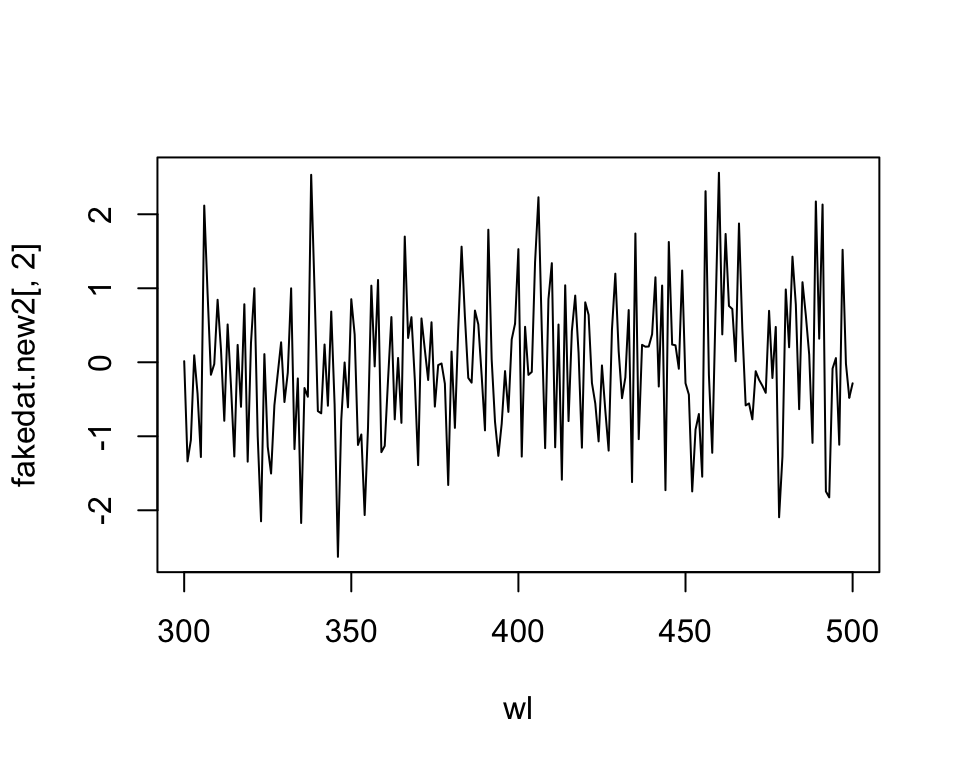
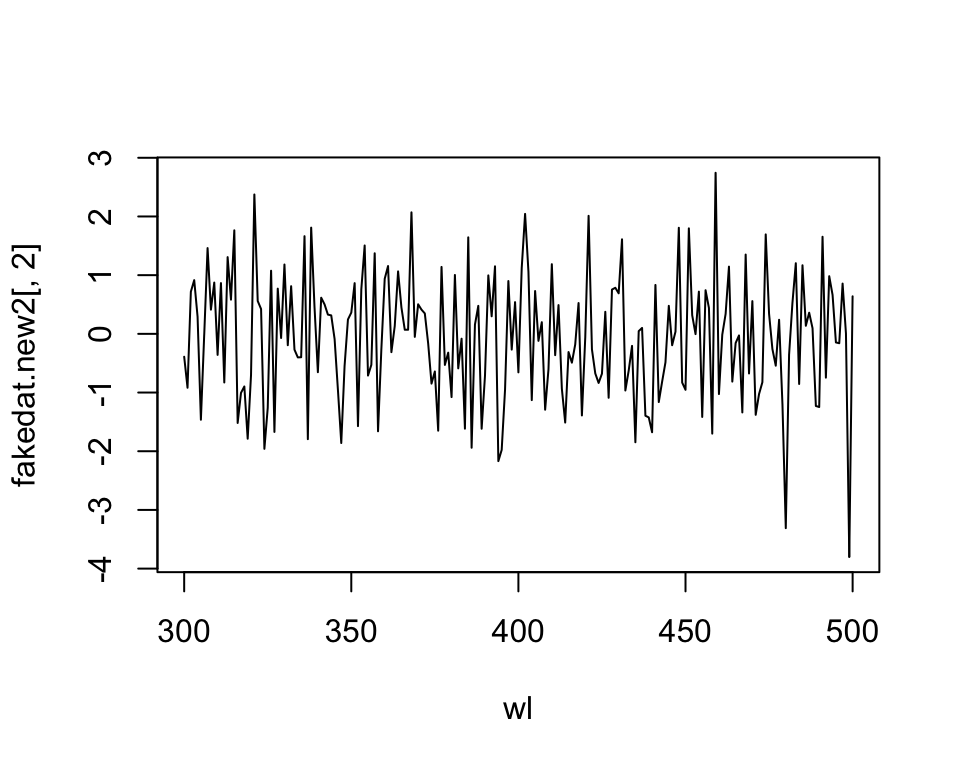
readme

diff --git a/docs/articles/pavo.html b/docs/articles/pavo.html
@@ -117,13 +117,13 @@ fakedat &lt;-<span class="st"> </span><span class="kw">data.frame</span>(<span c
                       <span class="dt">refl2 =</span> <span class="kw">rnorm</span>(<span class="dt">n =</span> <span class="dv">801</span>), 
                       <span class="dt">wavelength =</span> <span class="kw">seq</span>(<span class="dv">300</span>, <span class="dv">700</span>, <span class="dt">by =</span> .<span class="dv">5</span>))
 <span class="kw">head</span>(fakedat)</code></pre></div>
-<pre><code>##         refl1      refl2 wavelength
-## 1  0.01442631  0.5185844      300.0
-## 2  1.31080537  0.6883689      300.5
-## 3 -1.33869318 -0.4422864      301.0
-## 4  0.57639764  0.9572280      301.5
-## 5 -1.05061655  0.1679977      302.0
-## 6 -0.26932046 -0.2680986      302.5</code></pre>
+<pre><code>##        refl1      refl2 wavelength
+## 1 -0.3899778  1.3901699      300.0
+## 2  0.8020049  0.3973631      300.5
+## 3 -0.9183102  1.6161228      301.0
+## 4 -0.8252260  0.2964731      301.5
+## 5  0.7185943 -0.2588769      302.0
+## 6 -0.6365336  3.0182240      302.5</code></pre>
 <div class="sourceCode"><pre class="sourceCode r"><code class="sourceCode r"><span class="kw"><a href="../reference/as.rspec.html">is.rspec</a></span>(fakedat)</code></pre></div>
 <pre><code>## [1] FALSE</code></pre>
 <div class="sourceCode"><pre class="sourceCode r"><code class="sourceCode r">fakedat.new &lt;-<span class="st"> </span><span class="kw"><a href="../reference/as.rspec.html">as.rspec</a></span>(fakedat)</code></pre></div>
@@ -131,22 +131,22 @@ fakedat &lt;-<span class="st"> </span><span class="kw">data.frame</span>(<span c
 <div class="sourceCode"><pre class="sourceCode r"><code class="sourceCode r"><span class="kw"><a href="../reference/as.rspec.html">is.rspec</a></span>(fakedat.new)</code></pre></div>
 <pre><code>## [1] TRUE</code></pre>
 <div class="sourceCode"><pre class="sourceCode r"><code class="sourceCode r"><span class="kw">head</span>(fakedat.new)</code></pre></div>
-<pre><code>##    wl       refl1      refl2
-## 1 300  0.01442631  0.5185844
-## 2 301 -1.33869318 -0.4422864
-## 3 302 -1.05061655  0.1679977
-## 4 303  0.09383931  0.5488937
-## 5 304 -0.42433494  0.1307320
-## 6 305 -1.28008814  1.4509509</code></pre>
+<pre><code>##    wl      refl1      refl2
+## 1 300 -0.3899778  1.3901699
+## 2 301 -0.9183102  1.6161228
+## 3 302  0.7185943 -0.2588769
+## 4 303  0.9149001  0.8236543
+## 5 304  0.2962583  1.5031133
+## 6 305 -1.4632534  0.8829024</code></pre>
 <p>As can be seen, <code>as.rspec</code> renames the column containing wavelengths, sets it as the first column, interpolates the data in 1-nm bins and converts the data to an <code>rspec</code> object. Note that the same output is returned with specifying <code>whichwl = 3</code>:</p>
 <div class="sourceCode"><pre class="sourceCode r"><code class="sourceCode r"><span class="kw">head</span>(<span class="kw"><a href="../reference/as.rspec.html">as.rspec</a></span>(fakedat, <span class="dt">whichwl =</span> <span class="dv">3</span>))</code></pre></div>
-<pre><code>##    wl       refl1      refl2
-## 1 300  0.01442631  0.5185844
-## 2 301 -1.33869318 -0.4422864
-## 3 302 -1.05061655  0.1679977
-## 4 303  0.09383931  0.5488937
-## 5 304 -0.42433494  0.1307320
-## 6 305 -1.28008814  1.4509509</code></pre>
+<pre><code>##    wl      refl1      refl2
+## 1 300 -0.3899778  1.3901699
+## 2 301 -0.9183102  1.6161228
+## 3 302  0.7185943 -0.2588769
+## 4 303  0.9149001  0.8236543
+## 5 304  0.2962583  1.5031133
+## 6 305 -1.4632534  0.8829024</code></pre>
 <p>Finally, the <code>lim</code> argument allows you to specify the range of wavelengths contained in the input dataset. This is useful either in the case that the dataset doesn’t contain this information (and hence you cannot specify the column with <code>whichwl</code> or automatically find the column with <code>as.rspec</code>). Additionally, it may be useful to focus on a subset of wavelength. In our example, the wavelengths ranged from 300 to 700 nm, however you could also specify a restricted range of wavelengths with <code>lim</code>:</p>
 <div class="sourceCode"><pre class="sourceCode r"><code class="sourceCode r">fakedat.new2 &lt;-<span class="st"> </span><span class="kw"><a href="../reference/as.rspec.html">as.rspec</a></span>(fakedat, <span class="dt">lim =</span> <span class="kw">c</span>(<span class="dv">300</span>, <span class="dv">500</span>))</code></pre></div>
 <pre><code>## wavelengths found in column 3</code></pre>

diff --git a/docs/index.html b/docs/index.html
@@ -54,27 +54,32 @@
 <div class="page-header"><h1 class="hasAnchor">
 <a href="#pavo" class="anchor"></a><code>pavo</code>
 </h1></div>
-<div id="an-r-package-for-spectral-color-analysis-by-rafael-maia-thomas-white-chad-eliason-pierre-paul-bitton" class="section level3">
+<div id="an-r-package-for-spectral-color-analysis-by-rafael-maia-thomas-white-chad-eliason-and-pierre-paul-bitton" class="section level3">
 <h3 class="hasAnchor">
-<a href="#an-r-package-for-spectral-color-analysis-by-rafael-maia-thomas-white-chad-eliason-pierre-paul-bitton" class="anchor"></a>an R package for spectral color analysis by Rafael Maia, Thomas White, Chad Eliason, Pierre-Paul Bitton</h3>
+<a href="#an-r-package-for-spectral-color-analysis-by-rafael-maia-thomas-white-chad-eliason-and-pierre-paul-bitton" class="anchor"></a>an R package for spectral color analysis by Rafael Maia, Thomas White, Chad Eliason and Pierre-Paul Bitton</h3>
 <p><a href="https://cran.r-project.org/package=pavo/"><img src="http://www.r-pkg.org/badges/version/pavo" alt="cran version"></a> <img src="http://cranlogs.r-pkg.org/badges/grand-total/pavo" alt="cran downloads"><a href="https://travis-ci.org/rmaia/pavo/branches"><img src="https://travis-ci.org/rmaia/pavo.svg?branch=master" alt="Build Status"></a><br><!-- revamp: [![Build Status](https://travis-ci.org/rmaia/pavo.svg?branch=revamp)](https://travis-ci.org/rmaia/pavo/branches) --></p>
 </div>
 <div id="about" class="section level2">
 <h2 class="hasAnchor">
 <a href="#about" class="anchor"></a>About</h2>
 <p>A set of functions and tools for the analysis of color data in a unified framework.</p>
-<p>Click here for <a href="http://rafaelmaia.net/pavo/news/index.html">Latest News</a> and <a href="http://rafaelmaia.net/pavo/articles/pavo.html">Package Vignette</a>.</p>
-</div>
-<div id="need-help-with-the-package" class="section level2">
-<h2 class="hasAnchor">
-<a href="#need-help-with-the-package" class="anchor"></a>Need help with the package?</h2>
-<p>Join the chat: <a href="https://gitter.im/r-pavo/help?utm_source=badge&amp;utm_medium=badge&amp;utm_campaign=pr-badge&amp;utm_content=badge"><img src="https://badges.gitter.im/Join%20Chat.svg" alt="Join the chat at https://gitter.im/r-pavo/help"></a></p>
-<div id="citing-pavo" class="section level3">
+<p>and</p>
+<div id="need-help-with-the-package" class="section level3">
 <h3 class="hasAnchor">
-<a href="#citing-pavo" class="anchor"></a>Citing pavo</h3>
+<a href="#need-help-with-the-package" class="anchor"></a>Need help with the package?</h3>
+<ul>
+<li>Click the links above for help with specific functions.</li>
+<li>Check out the <a href="http://rafaelmaia.net/pavo/news/index.html">Latest News</a> for changes and updates.</li>
+<li>Read the <a href="http://rafaelmaia.net/pavo/articles/pavo.html">Package Vignette</a> for detailed examples and workflow pipeline.</li>
+<li><strong>Can’t find what you’re looking for? Join the chat: <a href="https://gitter.im/r-pavo/help?utm_source=badge&amp;utm_medium=badge&amp;utm_campaign=pr-badge&amp;utm_content=badge"><img src="https://badges.gitter.im/Join%20Chat.svg" alt="Join the chat at https://gitter.im/r-pavo/help"></a></strong></li>
+</ul>
+</div>
+</div>
+<div id="citing-pavo" class="section level2">
+<h2 class="hasAnchor">
+<a href="#citing-pavo" class="anchor"></a>Citing pavo</h2>
 <p>The manuscript describing the package has been published and is free to access:</p>
 <p>Maia R., Eliason C.M., Bitton P.-P., Doucet S.M. and Shawkey M.D. 2013. <strong>pavo: an R Package for the analysis, visualization and organization of spectral data.</strong> <em>Methods in Ecology and Evolution</em> 4(10):609-613. [doi: 10.1111/2041-210X.12069] (<a href="http://onlinelibrary.wiley.com/doi/10.1111/2041-210X.12069/abstract" class="uri">http://onlinelibrary.wiley.com/doi/10.1111/2041-210X.12069/abstract</a>)</p>
-</div>
 </div>
 <div id="install" class="section level2">
 <h2 class="hasAnchor">

diff --git a/README.md b/README.md
@@ -1,21 +1,21 @@
 # `pavo`
 
-### an R package for spectral color analysis by Rafael Maia, Thomas White, Chad Eliason, Pierre-Paul Bitton
+### an R package for spectral color analysis by Rafael Maia, Thomas White, Chad Eliason and Pierre-Paul Bitton
 
-[![cran version](http://www.r-pkg.org/badges/version/pavo)](https://cran.r-project.org/package=pavo/)
-![cran downloads](http://cranlogs.r-pkg.org/badges/grand-total/pavo)
-[![Build Status](https://travis-ci.org/rmaia/pavo.svg?branch=master)](https://travis-ci.org/rmaia/pavo/branches)  
+[![cran version](http://www.r-pkg.org/badges/version/pavo)](https://cran.r-project.org/package=pavo/)  ![cran downloads](http://cranlogs.r-pkg.org/badges/grand-total/pavo)  [![Build Status](https://travis-ci.org/rmaia/pavo.svg?branch=master)](https://travis-ci.org/rmaia/pavo/branches)  
 <!-- revamp: [![Build Status](https://travis-ci.org/rmaia/pavo.svg?branch=revamp)](https://travis-ci.org/rmaia/pavo/branches) -->
 
 ## About
 
 A set of functions and tools for the analysis of color data in a unified framework.
 
-Click here for [Latest News](http://rafaelmaia.net/pavo/news/index.html) and [Package Vignette](http://rafaelmaia.net/pavo/articles/pavo.html).
+ and 
 
-##Need help with the package? 
-
-Join the chat: [![Join the chat at https://gitter.im/r-pavo/help](https://badges.gitter.im/Join%20Chat.svg)](https://gitter.im/r-pavo/help?utm_source=badge&utm_medium=badge&utm_campaign=pr-badge&utm_content=badge)  
+###Need help with the package? 
+- Click the links above for help with specific functions.
+- Check out the [Latest News](http://rafaelmaia.net/pavo/news/index.html) for changes and updates.
+- Read the [Package Vignette](http://rafaelmaia.net/pavo/articles/pavo.html) for detailed examples and workflow pipeline.
+- **Can't find what you're looking for? Join the chat: [![Join the chat at https://gitter.im/r-pavo/help](https://badges.gitter.im/Join%20Chat.svg)](https://gitter.im/r-pavo/help?utm_source=badge&utm_medium=badge&utm_campaign=pr-badge&utm_content=badge)**  
   
 ## Citing pavo
 
